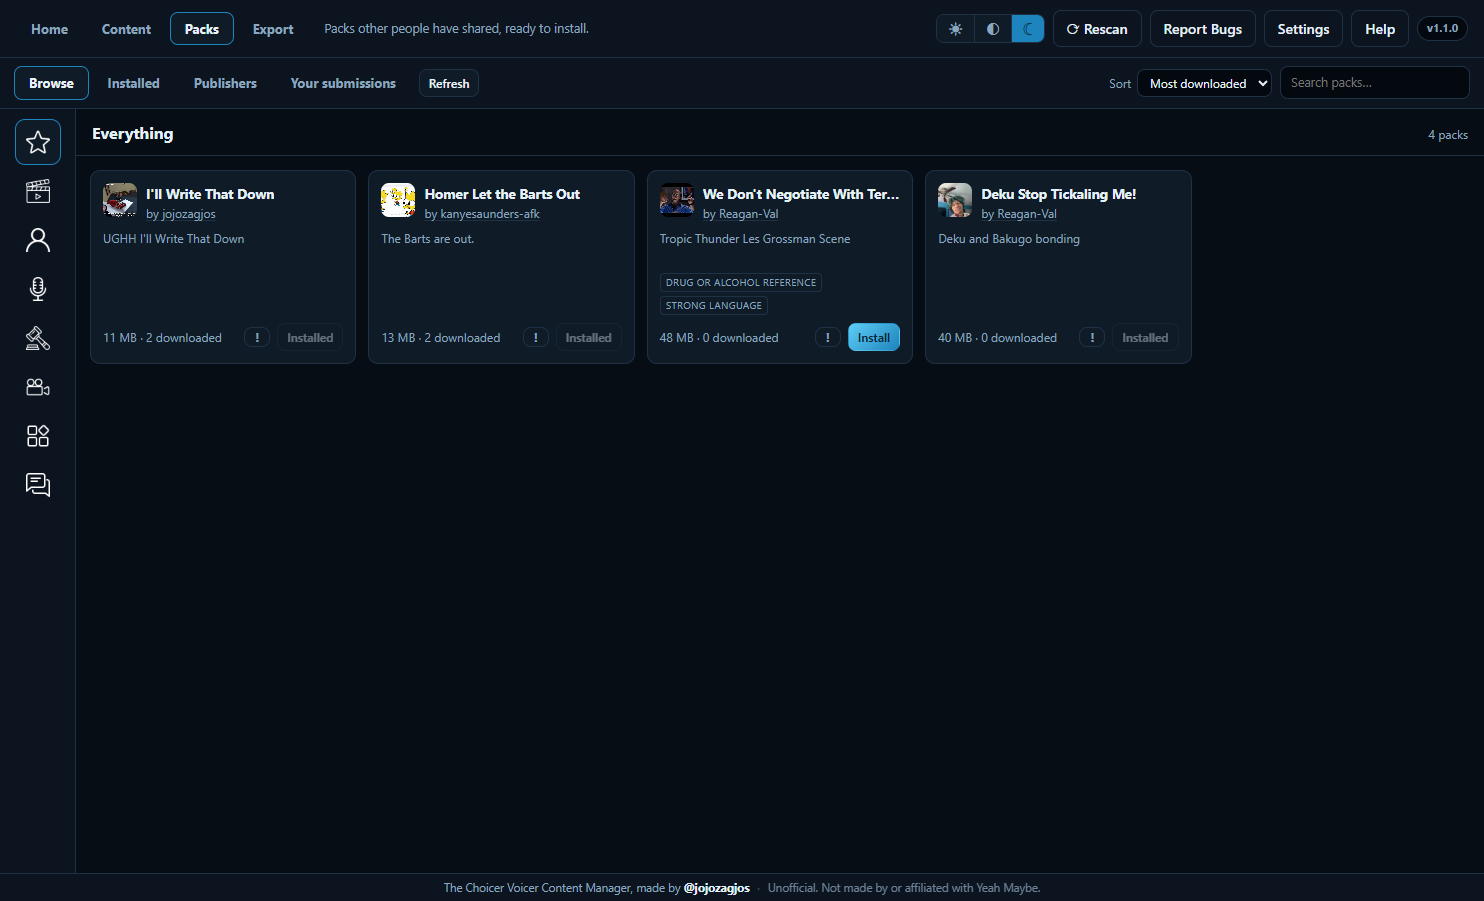
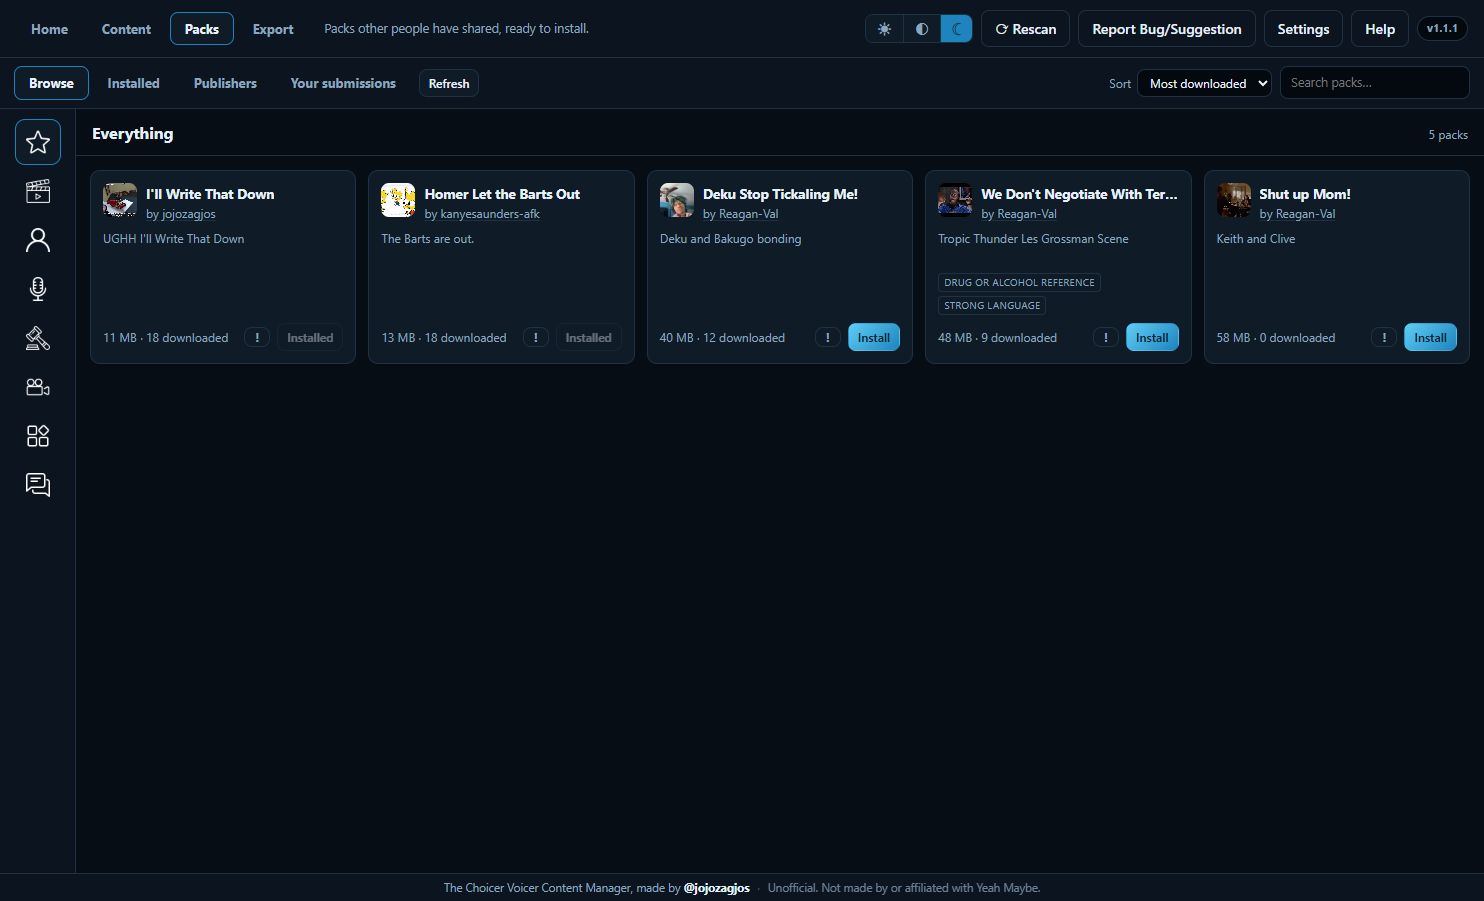
Say Share/Upload on the button that does both
Sharing a pack makes a zip and offers to publish it, and the button named
only the first of those.

The column it sits in grew to fit. Those labels do not wrap, so a column
narrower than the longest of them is a button with its words hanging out
rather than a tidier row.

Screenshots retaken, which also picks up the tab rename and the top bar.

diff --git a/src/renderer/app.js b/src/renderer/app.js
@@ -4184,7 +4184,7 @@ function renderContentDetail(pack) {
               title="${pack.iconPath || pack.iconUrl
     ? 'Package this pack, to publish to Packs or send to somebody'
     : 'This pack needs an icon first. Set one in Edit this pack, under Pack details.'
-}">${actionIcon('export')}<span>Share</span></button>
+}">${actionIcon('export')}<span>Upload</span></button>
       <button type="button" class="btn icon-action" id="btn-detail-open"
               title="Open this pack's folder">${actionIcon('folder')}<span>Open folder</span></button>
       <button type="button" class="btn btn-danger icon-action" id="btn-detail-delete"

diff --git a/src/renderer/styles.css b/src/renderer/styles.css
@@ -4086,7 +4086,10 @@ input[type="range"]::-webkit-slider-thumb {
    width either way. */
 .detail-actions-icons {
   display: grid;
-  grid-template-columns: repeat(auto-fit, minmax(118px, 1fr));
+  /* Wide enough for the longest label, which is "Share/Upload". The labels do
+     not wrap, so a column narrower than one of them is a button with its text
+     hanging out of it rather than a tidier row. */
+  grid-template-columns: repeat(auto-fit, minmax(134px, 1fr));
   gap: 8px;
 }
 .detail-actions-icons .icon-action {
